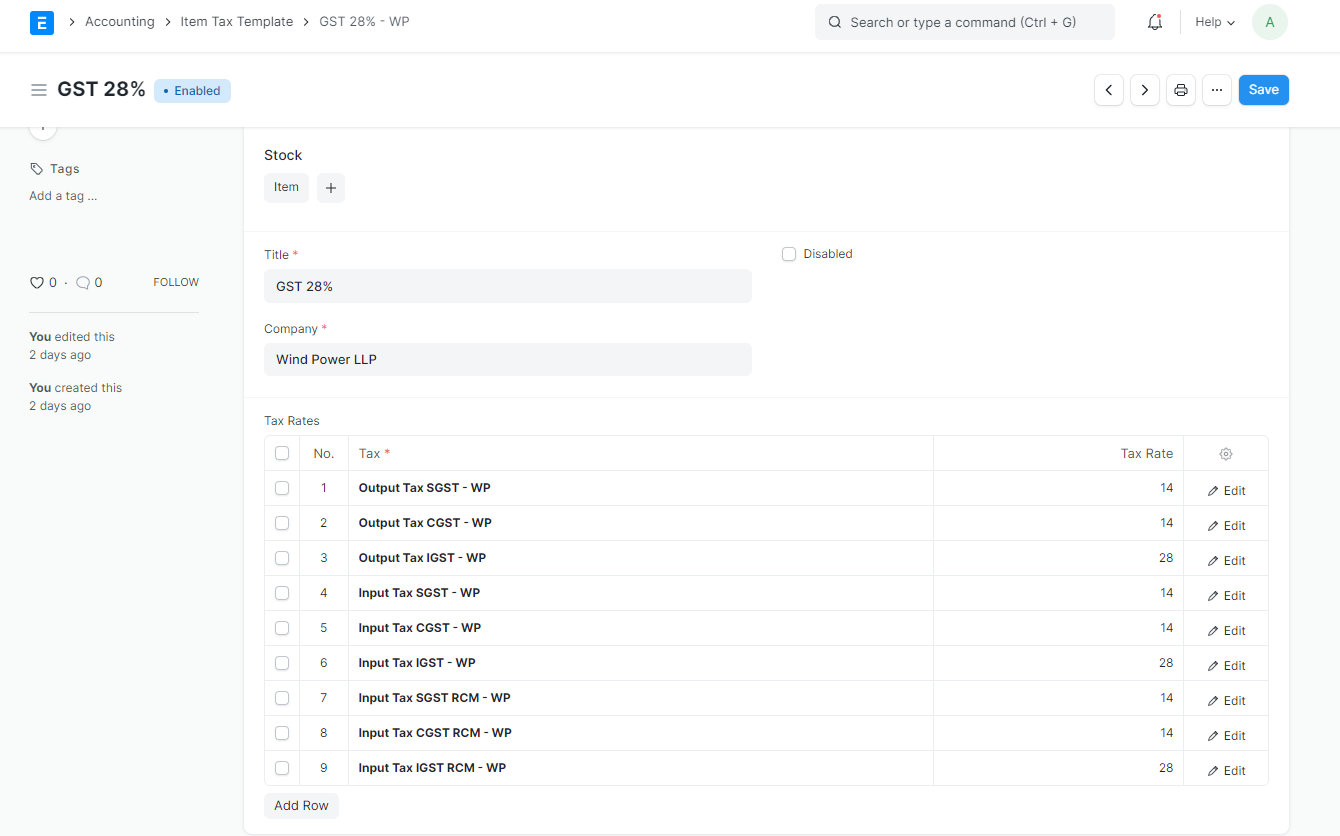
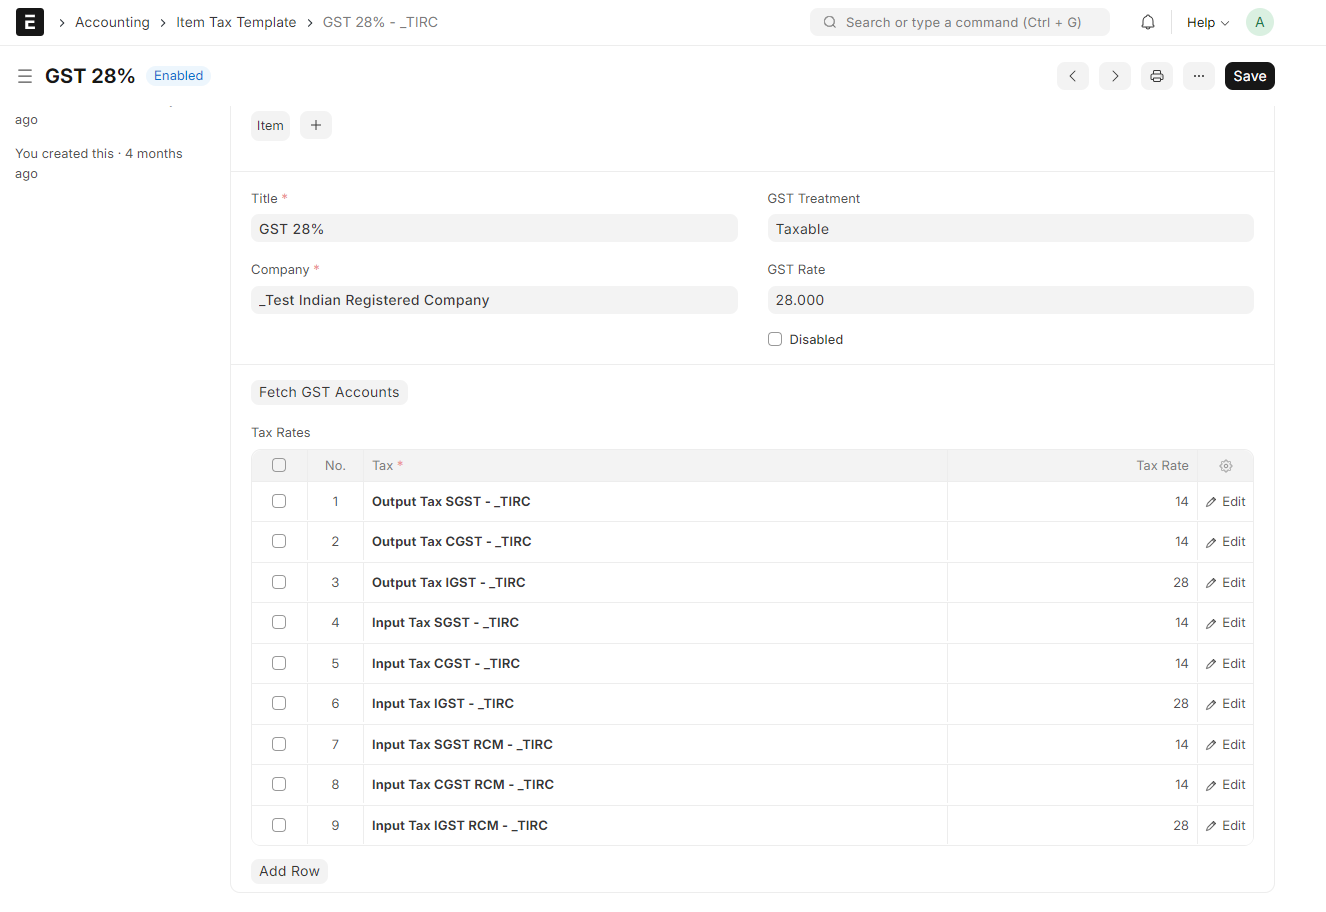
docs: update documentation for item tax template

diff --git a/pages/.vitepress/config.js b/pages/.vitepress/config.js
@@ -130,6 +130,7 @@ function sidebarDocs() {
             collapsible: true,
             collapsed: true,
             items: [
+                { text: "Migrating from V13", link: "/docs/developer-guide/migrating-from-v13" },
                 { text: "Migration Guide", link: "/docs/developer-guide/migration-guide" },
                 { text: "Sandbox", link: "/docs/developer-guide/sandbox" },
                 { text: "E-Invoice QR", link: "/docs/developer-guide/e_invoice_qr" },

diff --git a/pages/docs/developer-guide/migration-guide.md b/pages/docs/developer-guide/migration-guide.md
@@ -1,114 +1,21 @@
-# Migrating from ERPNext Version 13
+# Migration Guide
 
-Migrations are never easy, with a lot of uncertainties attached to them.
+## Item Tax Templates
 
-To simplify this, we have a guide for changes we have made to version 13 and how you can tackle them.
+> Applicable from v14.21.0 and v15.2.0
 
-This guide is particular to changes with India Compliance App.
+Item Tax Templates have been enhanced to have a wider scope.
 
-::: info
-We have appropriate patches to ensure a smooth migration, but there can be some ambiguity, which we have not touched. Make sure you have got all this right before you start using your systems.
-:::
+### Changes
 
-## First Steps
+Following breaking change is introduced to simplify setup, reduce errors, and better visibility in transactions.
 
-First, you shall be required to upgrade your ERPNext site from version 13 to version 14.
+- Introduced <strong>GST Details</strong> in all transactions. [Learn more](../configuration/sales_transaction.md#gst-details)
+- Fields <strong>Depricated</strong> from Item; `Is Nil Exempt` and `Is Non-GST`. Instead `GST Treatement` is introduced in Item Tax Templates. [Learn More](../configuration/gst_setup.md#item-tax-templates)
+- Splitting of `Is Nil Exempt` to `Nil-Rated` and `Exepted`
+- <strong>Patch</strong>: Items marked as `Is Nil Exepmt` will be marked as `Nil-Rated` in Item Tax Templates. If this is not acceptable for a few items, you should manually update your configuration as required.
 
-::: warning
-India-specific features have been removed from ERPNext, and you shall be required to install the new app, India Compliance.
-:::
+<strong>Best approach to manually update:</strong>
+Update HSN Taxes >> Update taxes for Items >> This will update item tax templates for your items.
 
-Once done, you must add India Compliance App and install it as per instructions [here](../getting-started/installation#self-hosted).
-
-Now we shall cover changes to specific features below.
-
-## GST Settings
-
-There has been a complete revamp of GST Settings and its features. Kindly review them individually once again and check if the configurations work as you expect.
-
-For more details, refer to the GST settings documentation.
-
-![gst-settings](./assets/gst_settings.gif)
-
-## Company Setup
-
-It is newly introduced to v14. You may please refer to the documentation here and make necessary changes if needed.
-
-Please check that GSTIN and GST Category are present in the company and address doctypes. It will ensure appropriate validations apply at the transaction level.
-
-## GST Accounts
-
-There is a slight change in how this works in v14 instead of v13. We have brought standardisation in implementing Tax Accounts for organisations of all sizes. You may refer to the documentation here and make appropriate changes.
-
-**How is it different from v13?**
-
-- With v13, there were no restrictions on how many accounts you could have for one company.
-- With v14, you should have one and only one GST account of a specific type for a company.
-- They are now better defined with version 14.
-
-With this standardisation, you will see a lot of improvements in validations and how taxes are implemented in v14.
-
-## Party and Address Doctypes
-
-There has been a change in how GST details are saved in party and address doctypes. Also, there is a slight difference in how they are auto-populated. You may refer to the documentation here and make appropriate changes.
-
-**How is it different from v13?**
-
-- You now have GST Category and GSTIN for Address and Party Doctypes (Customer and Supplier). This is to ensure completeness of information, default behaviour and valid transactions.
-- "URP" / "NA" is no longer acceptable for empty or No GSTIN. Just keep it blank.
-- Improved validations to ensure you get it right.
-
-**What care is needed post migration?**
-
-We do have a patch to ensure this works, but it doesn't work where there is ambiguity or maybe your existing database is not complete.
-Just filter out for following in Customer / Supplier / Address doctypes and fix them.
-
-- GST Category *is* not set.
-- GST Category *not in* Unregistered, Overseas and GSTIN *is* not set.
-- For addresses, you can have an additional filter. Check for link doctype *is in* Customer, Supplier, Company.
-
-All this is to ensure you have GSTIN and GST Category appropriately set for your parties and their addresses. It will ensure smoother transactions (without validation failures) in the future.
-
-## Fields restructuring
-
-With v14, there is consistency with the fields available in Transaction DocTypes throughout sales and purchase cycles.
-
-- There are minor changes with the placements of the fields and their types.
-- Fields that may need user inputs have been brought up from GST Section below.
-- *Is Reverse Charge* and *Is Export with Payment of Tax* is now a checkbox.
-- *GST Category* is now closer to GSTIN.
-
-## Major refactor for e-Invoice
-
-There has been a major refactor and change in the e-Invoice implementation. It is to make it more consistent, efficient, cleaner and wholesome with many fixes. You can go through detailed documentation on how it works here.
-
-The following changes may need to be incorporated into the e-Invoice implementation for your site.
-
-### E Invoice Settings
-
-It has been deprecated. These have been moved to GST Settings. Make sure you have the correct configurations migrated.
-
-### E Invoice Request Log
-
-It has been migrated to Integration Request.
-
-### e-Invoice Fields Restructuring
-
-Sales Invoice is now much lighter with fewer and most necessary e-Invoice fields.
-
-Fields like Acknowledgement No and Date and other relevant fields have been moved to e-Invoice Log, which is linked to Sales Invoice.
-
-### e-Invoice QR and Print Format
-
-e-Invoice QR was getting attached to the Sales Invoice, which was unnecessary and could cause problems. If you use one, you must fix your custom print format, and you can check the newer implementation [here](./e_invoice_qr.md).
-
-## Doctypes and Reports Deprecated
-
-::: danger
-Following reports and doctypes have been deprecated starting v14
-:::
-
-- E-Invoice Settings (Moved to GST Settings)
-- E-Invoice Request Log (Migrated to Integration Request)
-- Report E-Invoice Summary
-- Report Eway Bill
+![Update HSN Taxes](./assets/migration_guide_update_taxes.png)

diff --git a/pages/docs/developer-guide/migrating-from-v13.md b/pages/docs/developer-guide/migrating-from-v13.md
@@ -1,0 +1,114 @@
+# Migrating from ERPNext Version 13
+
+Migrations are never easy, with a lot of uncertainties attached to them.
+
+To simplify this, we have a guide for changes we have made to version 13 and how you can tackle them.
+
+This guide is particular to changes with India Compliance App.
+
+::: info
+We have appropriate patches to ensure a smooth migration, but there can be some ambiguity, which we have not touched. Make sure you have got all this right before you start using your systems.
+:::
+
+## First Steps
+
+First, you shall be required to upgrade your ERPNext site from version 13 to version 14.
+
+::: warning
+India-specific features have been removed from ERPNext, and you shall be required to install the new app, India Compliance.
+:::
+
+Once done, you must add India Compliance App and install it as per instructions [here](../getting-started/installation#self-hosted).
+
+Now we shall cover changes to specific features below.
+
+## GST Settings
+
+There has been a complete revamp of GST Settings and its features. Kindly review them individually once again and check if the configurations work as you expect.
+
+For more details, refer to the GST settings documentation.
+
+![gst-settings](./assets/gst_settings.gif)
+
+## Company Setup
+
+It is newly introduced to v14. You may please refer to the documentation here and make necessary changes if needed.
+
+Please check that GSTIN and GST Category are present in the company and address doctypes. It will ensure appropriate validations apply at the transaction level.
+
+## GST Accounts
+
+There is a slight change in how this works in v14 instead of v13. We have brought standardisation in implementing Tax Accounts for organisations of all sizes. You may refer to the documentation here and make appropriate changes.
+
+**How is it different from v13?**
+
+- With v13, there were no restrictions on how many accounts you could have for one company.
+- With v14, you should have one and only one GST account of a specific type for a company.
+- They are now better defined with version 14.
+
+With this standardisation, you will see a lot of improvements in validations and how taxes are implemented in v14.
+
+## Party and Address Doctypes
+
+There has been a change in how GST details are saved in party and address doctypes. Also, there is a slight difference in how they are auto-populated. You may refer to the documentation here and make appropriate changes.
+
+**How is it different from v13?**
+
+- You now have GST Category and GSTIN for Address and Party Doctypes (Customer and Supplier). This is to ensure completeness of information, default behaviour and valid transactions.
+- "URP" / "NA" is no longer acceptable for empty or No GSTIN. Just keep it blank.
+- Improved validations to ensure you get it right.
+
+**What care is needed post migration?**
+
+We do have a patch to ensure this works, but it doesn't work where there is ambiguity or maybe your existing database is not complete.
+Just filter out for following in Customer / Supplier / Address doctypes and fix them.
+
+- GST Category *is* not set.
+- GST Category *not in* Unregistered, Overseas and GSTIN *is* not set.
+- For addresses, you can have an additional filter. Check for link doctype *is in* Customer, Supplier, Company.
+
+All this is to ensure you have GSTIN and GST Category appropriately set for your parties and their addresses. It will ensure smoother transactions (without validation failures) in the future.
+
+## Fields restructuring
+
+With v14, there is consistency with the fields available in Transaction DocTypes throughout sales and purchase cycles.
+
+- There are minor changes with the placements of the fields and their types.
+- Fields that may need user inputs have been brought up from GST Section below.
+- *Is Reverse Charge* and *Is Export with Payment of Tax* is now a checkbox.
+- *GST Category* is now closer to GSTIN.
+
+## Major refactor for e-Invoice
+
+There has been a major refactor and change in the e-Invoice implementation. It is to make it more consistent, efficient, cleaner and wholesome with many fixes. You can go through detailed documentation on how it works here.
+
+The following changes may need to be incorporated into the e-Invoice implementation for your site.
+
+### E Invoice Settings
+
+It has been deprecated. These have been moved to GST Settings. Make sure you have the correct configurations migrated.
+
+### E Invoice Request Log
+
+It has been migrated to Integration Request.
+
+### e-Invoice Fields Restructuring
+
+Sales Invoice is now much lighter with fewer and most necessary e-Invoice fields.
+
+Fields like Acknowledgement No and Date and other relevant fields have been moved to e-Invoice Log, which is linked to Sales Invoice.
+
+### e-Invoice QR and Print Format
+
+e-Invoice QR was getting attached to the Sales Invoice, which was unnecessary and could cause problems. If you use one, you must fix your custom print format, and you can check the newer implementation [here](./e_invoice_qr.md).
+
+## Doctypes and Reports Deprecated
+
+::: danger
+Following reports and doctypes have been deprecated starting v14
+:::
+
+- E-Invoice Settings (Moved to GST Settings)
+- E-Invoice Request Log (Migrated to Integration Request)
+- Report E-Invoice Summary
+- Report Eway Bill

diff --git a/pages/docs/configuration/gst_setup.md b/pages/docs/configuration/gst_setup.md
@@ -30,9 +30,13 @@ For different tax rates, you get item tax templates preconfigured for your compa
 
 - ## Item Master
 
-Nil rated, exempted or Non-GST items have Is nill rated or Is Non-GST checkbox is checked in the item master.
+You can configure HSN, Tax Templeate, etc for item from Item Master.
 
-![GST Exempted](./assets/gst_item.png)
+Item Taxes can be configured from the taxes tab as below. 
+- If the item is not eligible for claiming ITC, it can be configured from here and GST will be reversed for such item when a purchase is made.
+- Select the appropriate item tax template applicable for that item. This template is auto-set when creating transactions. Templates would differ for each company.
+
+![GST Item Configuration](./assets/gst_item.png)
 
 - ## GST Accounts
 

diff --git a/pages/docs/configuration/sales_transaction.md b/pages/docs/configuration/sales_transaction.md
@@ -12,3 +12,8 @@ If you have set up the GSTIN of your Customers and Suppliers, and your tax templ
 
 ### Printing GST Tax Invoice  
 To print Tax Invoice as per GST guidelines, please select **GST Tax Invoice** print format. This print format includes company address, GSTIN numbers, HSN/SAC Code and item-wise tax breakup. And while printing, select the correct value of the `Invoice Copy` field to mention whether it is for the Customer, Supplier or Transporter.
+
+## GST Details
+Item taxes breakup for each item is shown in the GST Details section for Item table. This ensures better performace, better print formats, and backwards compatibility for changes to GST Accounts.
+
+![Item GST Details](./assets/item_gst_details.png)

diff --git a/pages/docs/getting-started/installation.md b/pages/docs/getting-started/installation.md
@@ -26,5 +26,5 @@ You can get started in a few minutes with a new site and a fresh install to try 
 
 Need consultation / support in getting started. [Get help!](mailto:info@resilient.tech)
 
-For Migration guide [Click Here](../developer-guide/migration-guide.md)  
+For Migration guide [Click Here](../developer-guide/migrating-from-v13.md)  
 For Sandbox Configuration [Click Here](../developer-guide/sandbox.md)
